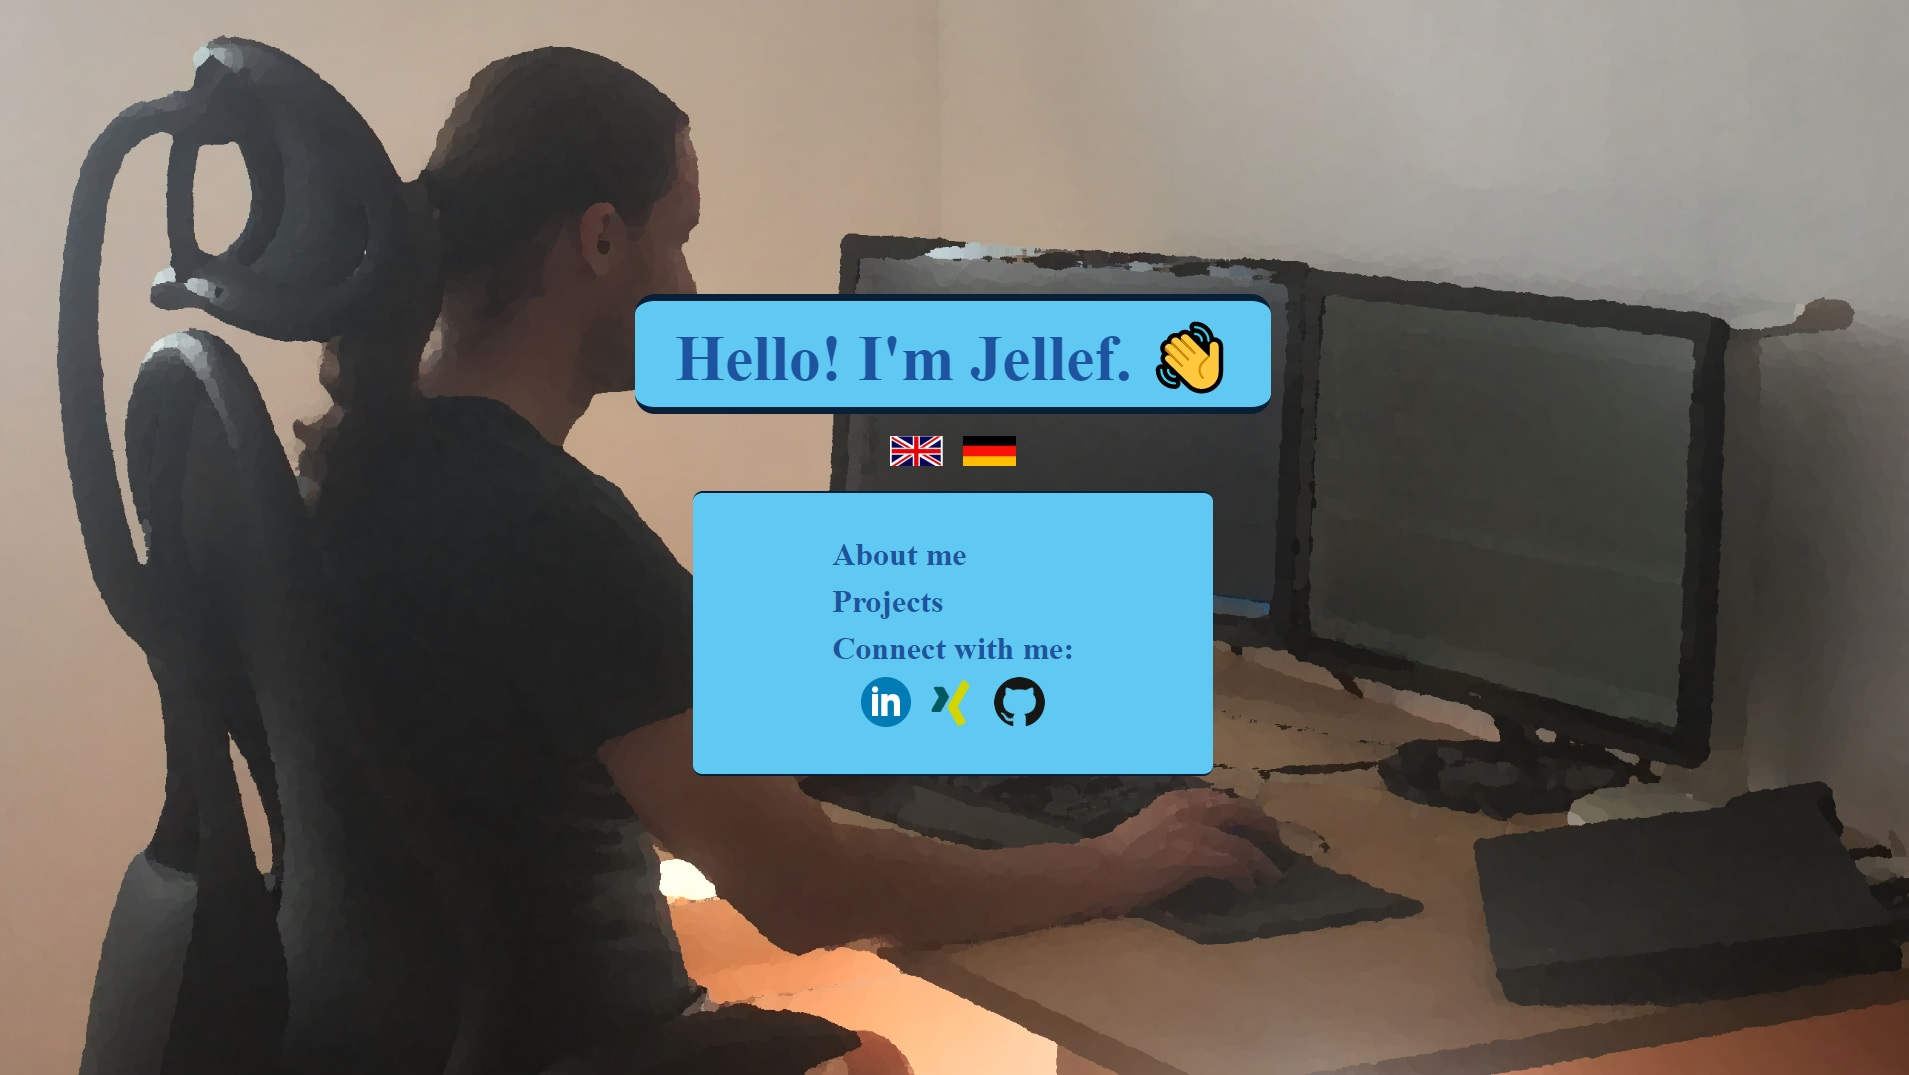
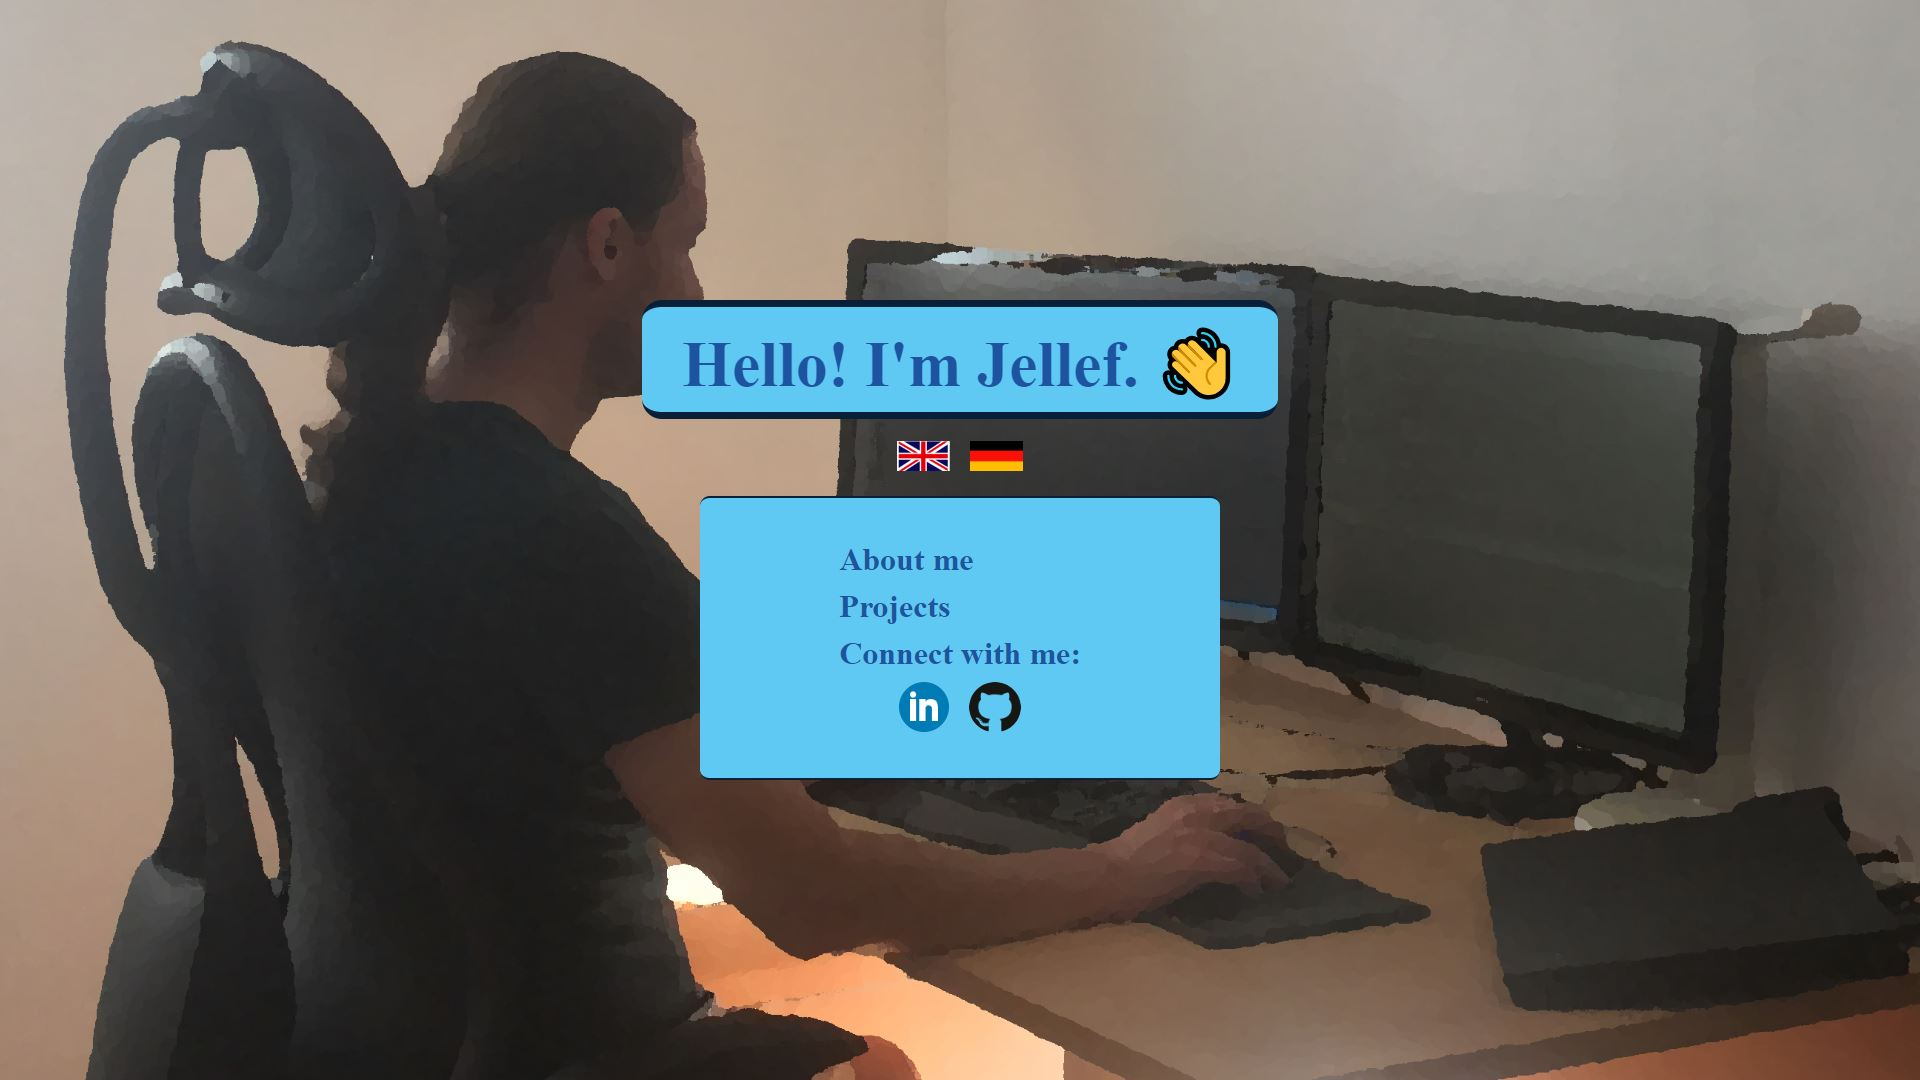
Portfolio update
- deleted xing
- update about me

diff --git a/src/app/components/about/about.component.ts b/src/app/components/about/about.component.ts
@@ -33,16 +33,18 @@ export class AboutComponent implements OnInit, DoCheck {
       about: "About me",
       toolkit: "My Toolkit",
       texts: [
-        "Hello, I'm an aspiring junior developer and am going to graduate my studies of information systems in Heidelberg around mid september 2022. I'm currently enjoying my journey to be a professional developer through different private projects and my internship as a full-stack-developer in Karlsruhe.",
-        "Other than coding, I spend most of my free time learning chinese, meditating or staying in nature. I also like reading and meeting friends and new people to broaden my knowledge, mind and to have a good time enjoying live."
+        "Hi there 👋, ",
+        "I’m a growing software developer and data scientist. Currently happily and satisfied working as a junior software developer in Karlsruhe with a great team on Identity Management Systems. During my free time I’m working on different projects to expand my developer and data science skills. I really love to see my skills growing over time.",
+        "Other than coding, I spend most of my free time learning Chinese, meditating, doing sports, meeting friends or staying in nature. It’s great to have such different experiences. Therefore, I love to meet different people, my friends or just broaden my knowledge and horizons while enjoying my life."
       ]
     },
     "de": {
       about: "Über mich",
       toolkit: "Meine Toolbox",
       texts: [
-        "Hallo, Ich bin ein ergeiziger junior Entwickler und werde mitte September meine Ausbildung als Wirtschaftsinformatiker in Heidelberg abschließen. Derzeit genieße ich meine Reise zum professionellen Entwickler mit verschiedenen privaten Projekten und meinem Praktikum als Softwareentwickler in Karlsruhe.",
-        "Wenn ich nicht gerade programmiere, verbringe ich meine Freizeit mit chinesisch lernen, meditieren oder bin drausen in der Natur. Weiterhin lese und treffe ich mich gerne mit Freunden und neuen Menschen um mein Wissen und Horizont zu erweitern, und mein Leben zu genießen."
+        "Hi 👋, ",
+        "Ich bin ein wachsender Softwareentwickler und Data Scientist. Derzeit arbeite ich glücklich und zufrieden als Junior-Softwareentwickler in Karlsruhe mit einem tollen Team im Bereich Identity Management Systems. In meiner Freizeit programmiere ich verschiedene Projekte, um meine Entwickler- und Datenwissenschaftskenntnisse zu erweitern. Ich liebe es zu sehen, wie meine Fähigkeiten mit der Zeit wachsen.",
+        "Abgesehen vom Programmieren verbringe ich den Großteil meiner Freizeit damit, Chinesisch zu lernen, zu meditieren, Sport zu treiben, Freunde zu treffen oder mich in der Natur aufzuhalten. Es ist spannend, solch unterschiedliche Erfahrungen zu machen. Deshalb liebe ich es, andere Menschen kennenzulernen und Freunde zu treffen oder einfach mein Wissen und meinen Horizont zu erweitern und gleichzeitig mein Leben zu genießen."
       ]
     }
   }

diff --git a/src/app/components/home/home.component.ts b/src/app/components/home/home.component.ts
@@ -18,8 +18,6 @@ interface NavigationInformation {
 })
 export class HomeComponent implements OnInit {
   linkedIn = "https://www.linkedin.com/in/jellef-abbenseth"
-  xing = "https://www.xing.com/profile/Jellef_Abbenseth"
-  xingImage = "https://zangano.de/wp-content/uploads/2019/05/xing-icon-logo-png-transparent-450x529.png"
   gitHub = "https://github.com/JellefAbbenseth"
   engImage = "https://external-content.duckduckgo.com/iu/?u=https%3A%2F%2Fi.pinimg.com%2Foriginals%2F1a%2F91%2F9a%2F1a919ae84506acb892da6580f728b957.jpg&f=1&nofb=1"
   gerImage = "https://external-content.duckduckgo.com/iu/?u=https%3A%2F%2Fs1.1zoom.me%2Fb5050%2F556%2F338438-Berserker_1920x1080.jpg&f=1&nofb=1"

diff --git a/src/app/components/home/home.component.html b/src/app/components/home/home.component.html
@@ -13,7 +13,6 @@
         <div class="connect">
             <div class="contact">
                 <a id="link_picture" [href]=linkedIn><img [src]=linkedInImage alt='linkedin'></a>
-                <a id="link_picture" [href]=xing><img [src]=xingImage alt='xing'></a>
                 <a id="link_picture" [href]=gitHub><img [src]=gitHubImage alt='gitHub'></a>
             </div>
         </div>
